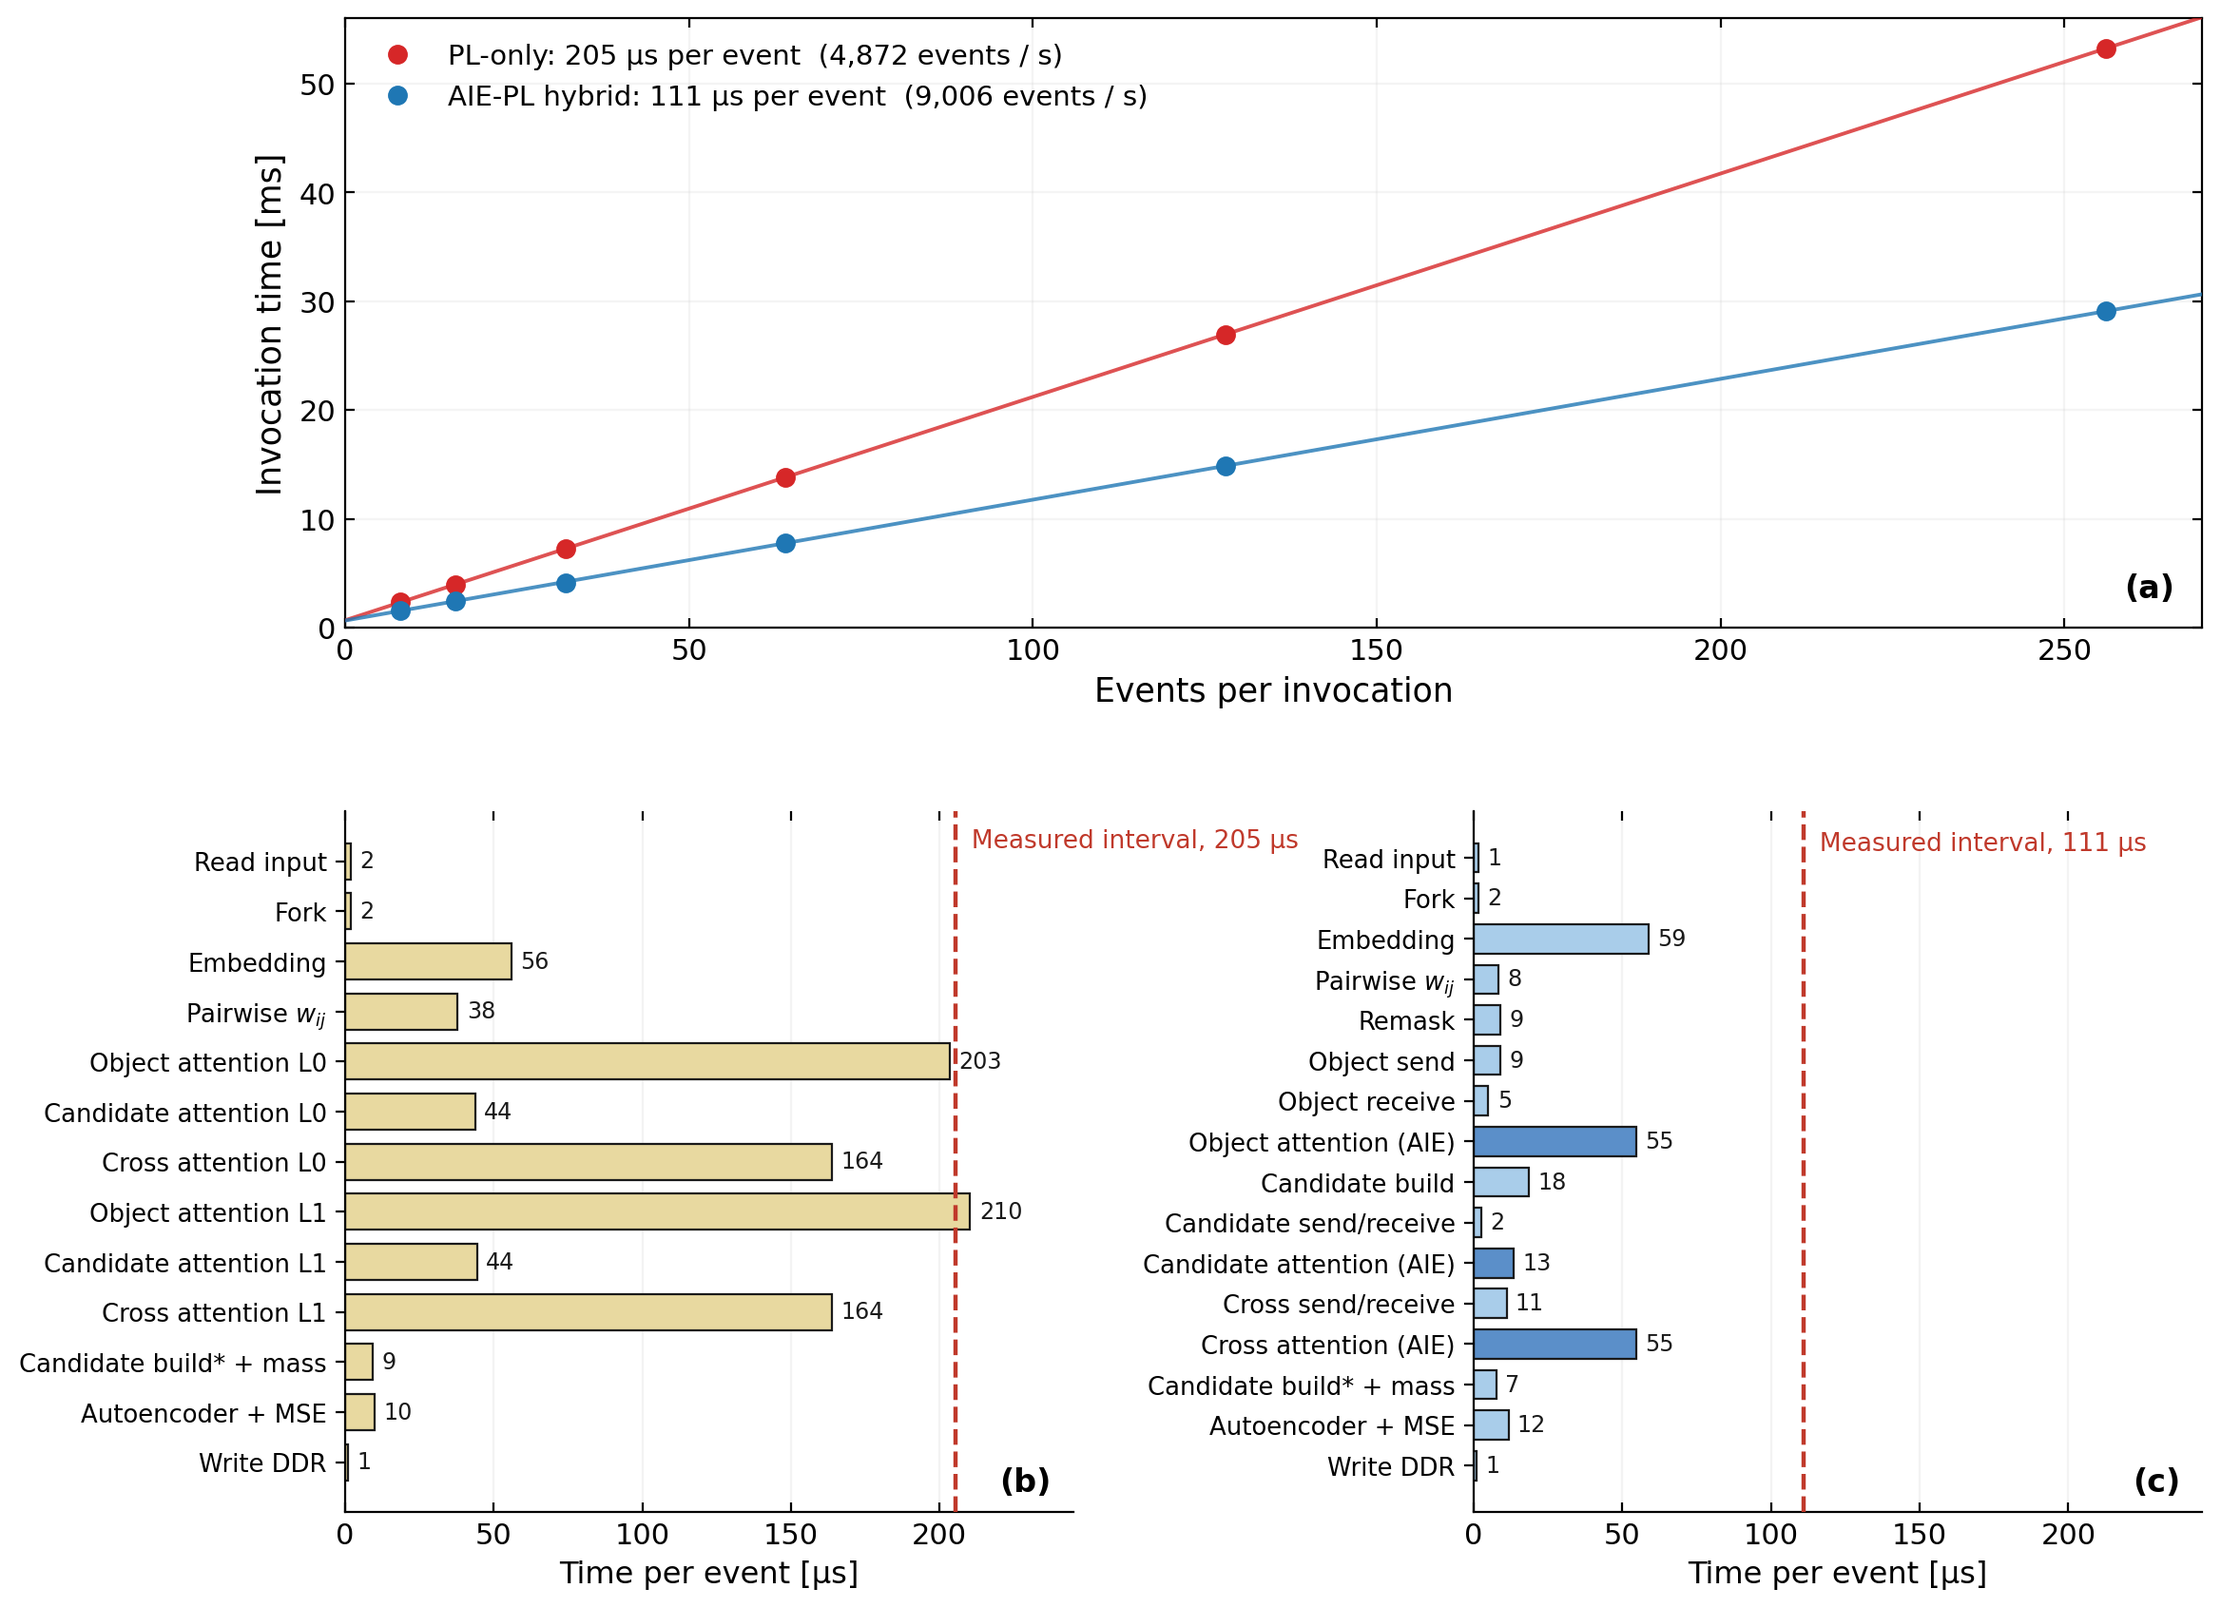
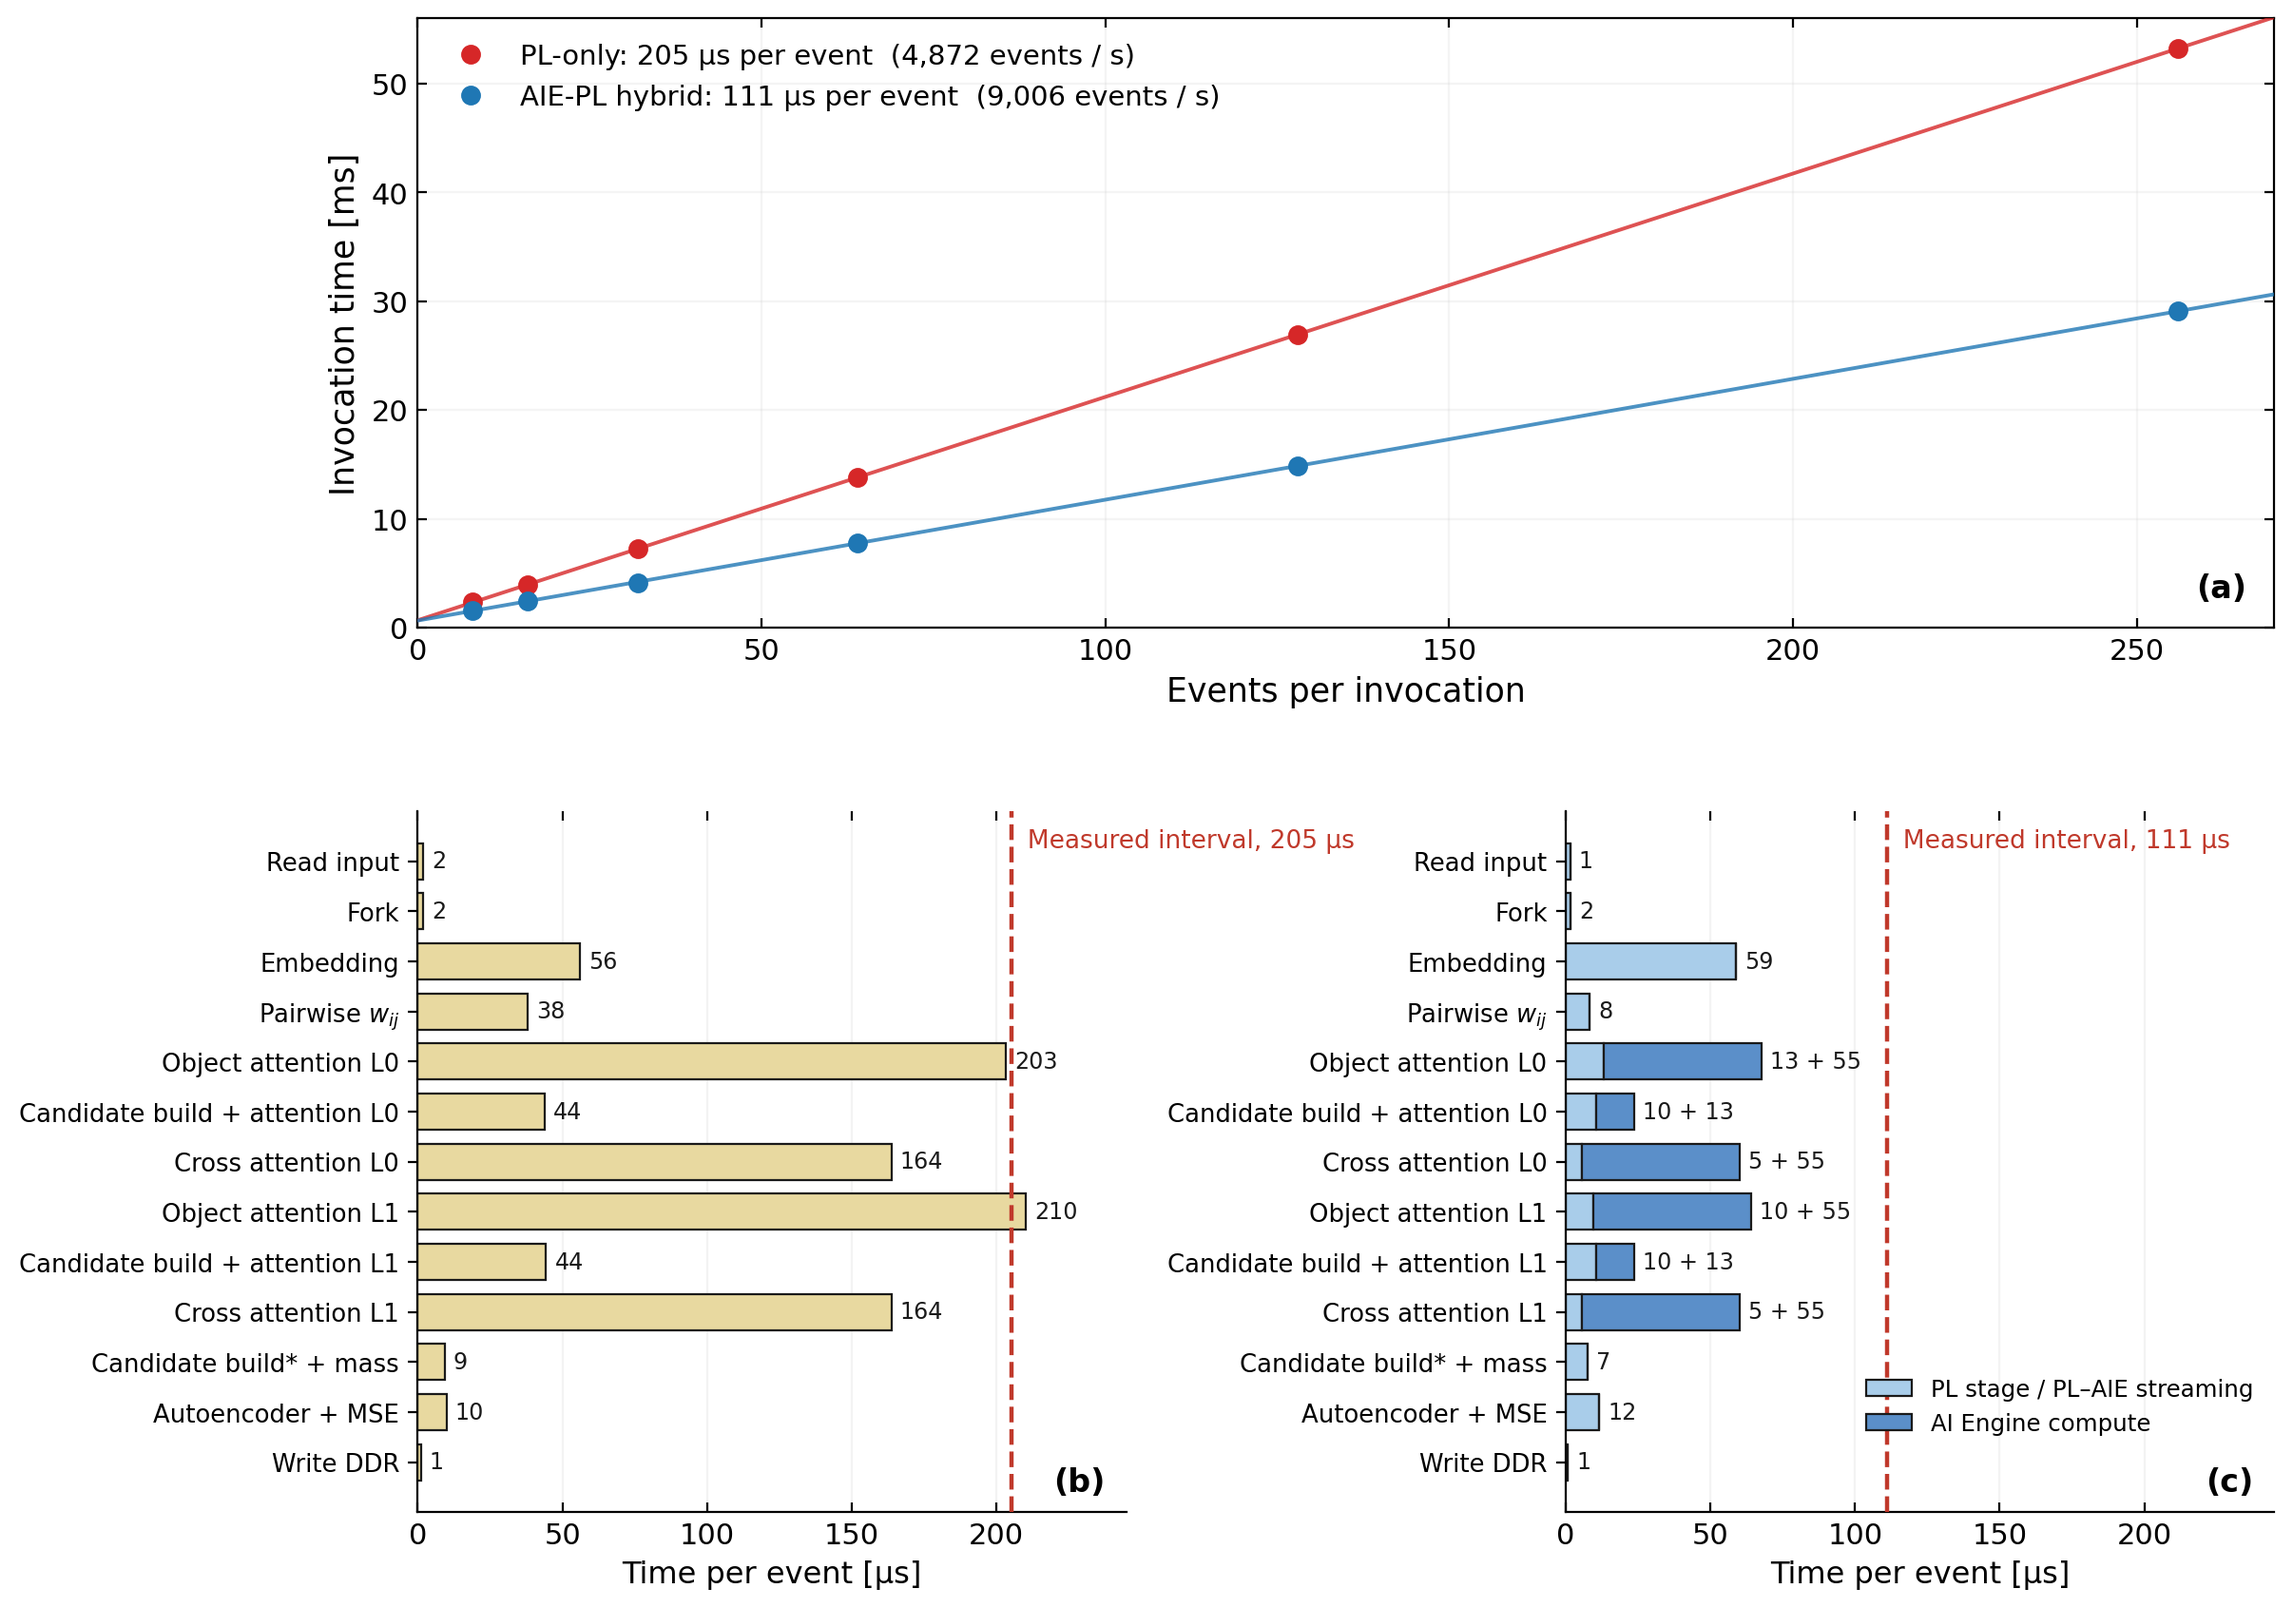
figs: identical stage rows in both breakdown panels
Hybrid attention rows are stacked: PL streaming/building (light) plus the
measured AI Engine compute interval (dark), so every row compares
one-to-one with the PL-only panel.

diff --git a/scripts/make_latency_and_stages.py b/scripts/make_latency_and_stages.py
@@ -24,32 +24,38 @@ SWEEP = {
 COL = {"PL-only": PL_C, "AIE-PL hybrid": AIE_C}
 NMIN = 8
 
-# ---- (b),(c) per-stage costs from the routed synthesis reports ---------------
+# ---- (b),(c) per-stage costs, SAME rows in both panels ------------------------
+# PL-only: routed cycle counts at 80 MHz. Hybrid: PL parts at 100 MHz from the
+# routed report; AIE compute = measured per-block interval (blocks3 sweep, L0
+# blocks; L1 uses the same kernels and is taken equal). Hybrid attention rows are
+# stacked: light = PL streaming / building on the fabric, dark = AI Engine compute.
 PL_CLK, HYB_CLK = 80e6, 100e6
-PL = [("Read input", 149), ("Fork", 153), ("Embedding", 4483), ("Pairwise $w_{ij}$", 3028),
-      ("Object attention L0", 16269), ("Candidate attention L0", 3499),
-      ("Cross attention L0", 13102), ("Object attention L1", 16824),
-      ("Candidate attention L1", 3551), ("Cross attention L1", 13102),
-      ("Candidate build* + mass", 747), ("Autoencoder + MSE", 792), ("Write DDR", 81)]
-HYB = [("Read input", 149), ("Fork", 153), ("Embedding", 5874), ("Pairwise $w_{ij}$", 836),
-       ("Remask", 900), ("Object send", 881), ("Object receive", 482),
-       ("Candidate build", 1840), ("Candidate send/receive", 250),
-       ("Cross send/receive", 1098), ("Candidate build* + mass", 747),
-       ("Autoencoder + MSE", 1162), ("Write DDR", 81)]
 _bi = "/home/snehadri/aie_scratch_save_20260810/block_intervals.json"
-if os.path.isfile(_bi):
-    _d = json.load(open(_bi))
-    _ins = {"Object attention (AIE)": ("Object receive", "Object attention"),
-            "Candidate attention (AIE)": ("Candidate send/receive", "Candidate attention"),
-            "Cross attention (AIE)": ("Cross send/receive", "Cross attention")}
-    for lab, (after, key) in _ins.items():
-        if key in _d:
-            idx = [i for i, (l, _) in enumerate(HYB) if l == after][0] + 1
-            HYB.insert(idx, (lab, _d[key]["slope_us"] * HYB_CLK / 1e6))
+_d = json.load(open(_bi)) if os.path.isfile(_bi) else {}
+AIE = {k: _d[k]["slope_us"] for k in ("Object attention", "Candidate attention", "Cross attention") if k in _d}
+cyc = lambda c, clk: c / clk * 1e6
+# rows: (label, PL-only us, hybrid PL-side us, hybrid AIE us)
+ROWS = [
+ ("Read input",                cyc(149, PL_CLK),   cyc(149, HYB_CLK),                 0),
+ ("Fork",                      cyc(153, PL_CLK),   cyc(153, HYB_CLK),                 0),
+ ("Embedding",                 cyc(4483, PL_CLK),  cyc(5874, HYB_CLK),                0),
+ ("Pairwise $w_{ij}$",         cyc(3028, PL_CLK),  cyc(836, HYB_CLK),                 0),
+ ("Object attention L0",       cyc(16269, PL_CLK), cyc(614+241+450, HYB_CLK),         AIE.get("Object attention", 0)),
+ ("Candidate build + attention L0", cyc(3499, PL_CLK), cyc(920+64+61, HYB_CLK),      AIE.get("Candidate attention", 0)),
+ ("Cross attention L0",        cyc(13102, PL_CLK), cyc(308+241, HYB_CLK),             AIE.get("Cross attention", 0)),
+ ("Object attention L1",       cyc(16824, PL_CLK), cyc(267+241+450, HYB_CLK),         AIE.get("Object attention", 0)),
+ ("Candidate build + attention L1", cyc(3551, PL_CLK), cyc(920+64+61, HYB_CLK),      AIE.get("Candidate attention", 0)),
+ ("Cross attention L1",        cyc(13102, PL_CLK), cyc(308+241, HYB_CLK),             AIE.get("Cross attention", 0)),
+ ("Candidate build* + mass",   cyc(747, PL_CLK),   cyc(747, HYB_CLK),                 0),
+ ("Autoencoder + MSE",         cyc(792, PL_CLK),   cyc(1162, HYB_CLK),                0),
+ ("Write DDR",                 cyc(81, PL_CLK),    cyc(81, HYB_CLK),                  0),
+]
+labs = [r[0] for r in ROWS]
+y = np.arange(len(labs))[::-1]
 
 plt.rcParams.update({"font.size": 11})
 fig = plt.figure(figsize=(12.6, 10.2))
-gs = gridspec.GridSpec(2, 2, height_ratios=[1.0, 1.15], hspace=0.28, wspace=0.55)
+gs = gridspec.GridSpec(2, 2, height_ratios=[1.0, 1.15], hspace=0.28, wspace=0.62)
 axa = fig.add_subplot(gs[0, :]); axb = fig.add_subplot(gs[1, 0]); axc = fig.add_subplot(gs[1, 1])
 
 fits = {}
@@ -69,26 +75,30 @@ axa.tick_params(which="both", direction="in", right=True, top=True)
 axa.grid(alpha=.13); axa.set_axisbelow(True)
 axa.text(0.985, 0.05, "(a)", transform=axa.transAxes, fontsize=12, fontweight="bold", ha="right")
 
-for ax, data, clk, meas, col, letter in (
-        (axb, PL,  PL_CLK,  fits["PL-only"],       PLC,  "(b)"),
-        (axc, HYB, HYB_CLK, fits["AIE-PL hybrid"], AIEC, "(c)")):
-    labs = [d[0] for d in data]
-    us = np.array([d[1] / clk * 1e6 for d in data])
-    y = np.arange(len(labs))[::-1]
-    cols = [AIE_DARK if "(AIE)" in l else col for l in labs]
-    ax.barh(y, us, color=cols, edgecolor=INK, linewidth=0.8, height=0.72)
+# (b) PL-only
+pl_us = np.array([r[1] for r in ROWS])
+axb.barh(y, pl_us, color=PLC, edgecolor=INK, linewidth=0.8, height=0.72, label="PL stage")
+for yy, v in zip(y, pl_us):
+    axb.text(v + 3, yy, f"{v:.0f}", va="center", fontsize=8.6, color=INK)
+# (c) hybrid, stacked
+hp = np.array([r[2] for r in ROWS]); ha = np.array([r[3] for r in ROWS])
+axc.barh(y, hp, color=AIEC, edgecolor=INK, linewidth=0.8, height=0.72, label="PL stage / PL–AIE streaming")
+axc.barh(y, ha, left=hp, color=AIE_DARK, edgecolor=INK, linewidth=0.8, height=0.72, label="AI Engine compute")
+for yy, p, a in zip(y, hp, ha):
+    axc.text(p + a + 3, yy, f"{p+a:.0f}" if a == 0 else f"{p:.0f} + {a:.0f}", va="center", fontsize=8.6, color=INK)
+
+for ax, meas, letter in ((axb, fits["PL-only"], "(b)"), (axc, fits["AIE-PL hybrid"], "(c)")):
     ax.axvline(meas, color="#c0392b", ls="--", lw=1.6, zorder=5)
     ax.text(meas, len(labs) - 0.35, f"  Measured interval, {meas:.0f} µs", color="#c0392b",
             fontsize=9.5, va="top", ha="left")
-    for yy, v in zip(y, us):
-        ax.text(v + 3, yy, f"{v:.0f}", va="center", fontsize=8.6, color=INK)
     ax.set_yticks(y); ax.set_yticklabels(labs, fontsize=9.3)
     ax.set_xlabel("Time per event [µs]", fontsize=11.5)
     ax.set_xlim(0, 245)
     ax.tick_params(axis="x", direction="in", top=True)
     ax.grid(axis="x", alpha=.14); ax.set_axisbelow(True)
-    for s in ("top", "right"): ax.spines[s].set_visible(False)
+    for sp in ("top", "right"): ax.spines[sp].set_visible(False)
     ax.text(0.97, 0.03, letter, transform=ax.transAxes, fontsize=12, fontweight="bold", ha="right")
+axc.legend(frameon=False, fontsize=8.8, loc="lower right", bbox_to_anchor=(1.0, 0.08))
 
 out = "/home/snehadri/repos/aie-unsupervised-search/figs/latency_and_stages.png"
 fig.savefig(out, dpi=200, bbox_inches="tight")
